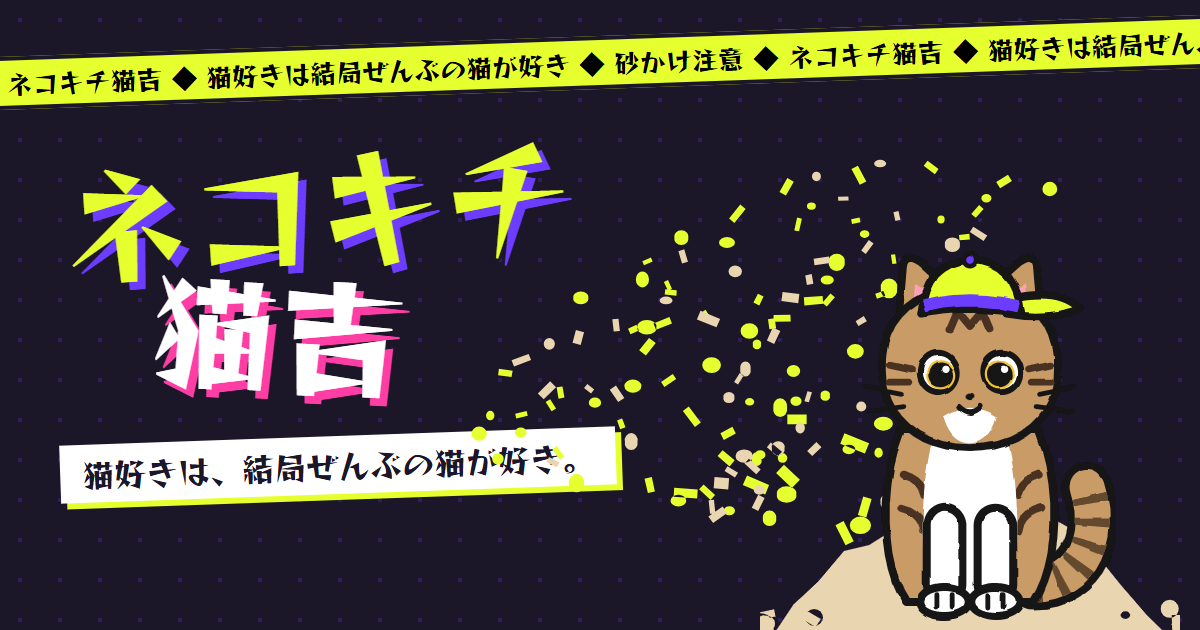
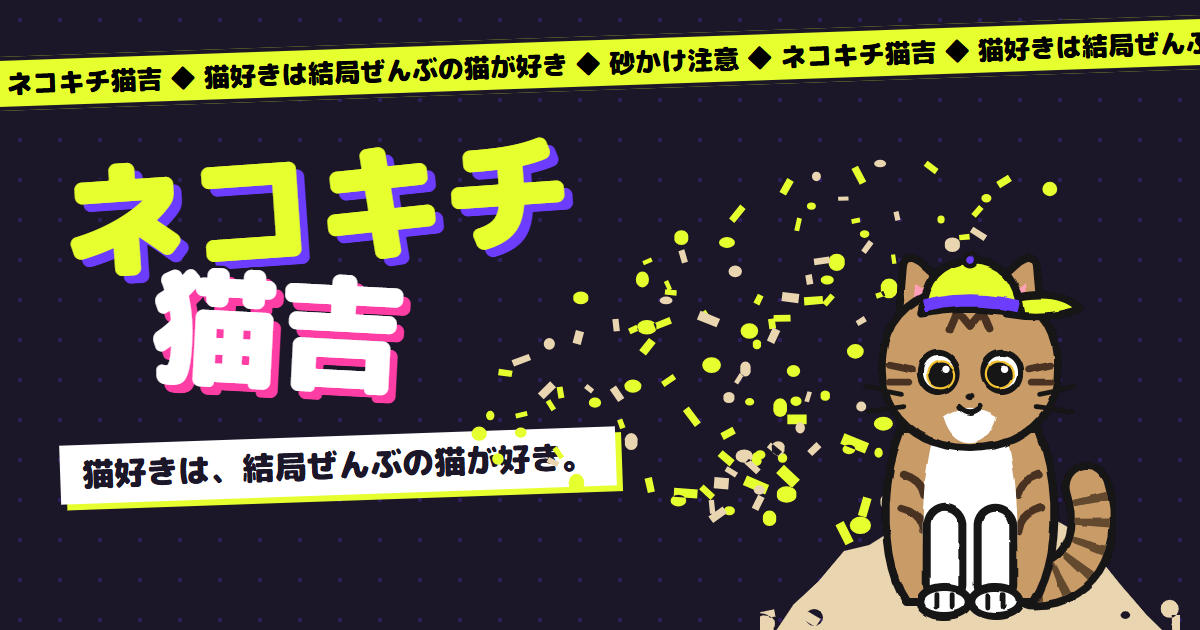
フォントを丸文字(M PLUS Rounded 1c・Fredoka)に、スマホのコロコロを小さく

Changed region(s): [[0.0617, 0.2111, 0.4933, 0.6635], [0.0, 0.0302, 1.0, 0.181], [0.0617, 0.6937, 0.5242, 0.8143]]

diff --git a/src/styles/global.css b/src/styles/global.css
@@ -21,11 +21,11 @@
   --kiji: #c99b66;
   --gray: #5f5870;
   --shadow: 5px 5px 0 var(--k);
-  --font-head: "Reggae One", "M PLUS 1p", "Hiragino Kaku Gothic StdN", sans-serif;
-  --font-logo: "Reggae One", "M PLUS 1p", sans-serif;
-  --font-latin: "Bungee", "Reggae One", sans-serif;
-  --font-dot: "M PLUS 1p", sans-serif;
-  --font-body: "M PLUS 1p", "Hiragino Kaku Gothic ProN", "Meiryo", sans-serif;
+  --font-head: "M PLUS Rounded 1c", "Hiragino Maru Gothic ProN", "Hiragino Sans", sans-serif;
+  --font-logo: "M PLUS Rounded 1c", "Hiragino Maru Gothic ProN", sans-serif;
+  --font-latin: "Fredoka", "M PLUS Rounded 1c", sans-serif;
+  --font-dot: "M PLUS Rounded 1c", sans-serif;
+  --font-body: "M PLUS Rounded 1c", "Hiragino Maru Gothic ProN", "Hiragino Sans", "Meiryo", sans-serif;
 }
 * { box-sizing: border-box; }
 html { -webkit-text-size-adjust: 100%; scroll-behavior: smooth; scroll-padding-top: 20px; }
@@ -45,7 +45,7 @@ a { color: var(--violet); text-underline-offset: 3px; }
 :focus-visible { outline: 4px solid var(--yellow); outline-offset: 2px; }
 svg { display: block; max-width: 100%; }
 .wrap { max-width: 1100px; margin: 0 auto; padding-inline: 16px; }
-h1, h2, h3 { font-family: var(--font-head); font-weight: 400; line-height: 1.3; margin: 0; }
+h1, h2, h3 { font-family: var(--font-head); font-weight: 900; line-height: 1.3; margin: 0; }
 h1, h2, h3, td, th, .btn, .tool-card b, .col-title, .wanted h3 { word-break: keep-all; overflow-wrap: anywhere; }
 .hl { background: linear-gradient(transparent 55%, var(--yellow) 55%); }
 .small { font-size: .84rem; color: var(--gray); }
@@ -58,7 +58,7 @@ h1, h2, h3, td, th, .btn, .tool-card b, .col-title, .wanted h3 { word-break: kee
 .brand { position: relative; display: flex; align-items: center; gap: 10px; color: var(--white); text-decoration: none; }
 .brand .logo-sand { position: absolute; left: -30px; top: -34px; width: 130px; z-index: -1; }
 .brand > span:last-child { display: grid; }
-.brand b { font-family: var(--font-logo); font-weight: 400; font-size: 1.75rem; line-height: 1.1; color: var(--yellow); -webkit-text-stroke: 1.5px var(--k); paint-order: stroke fill; text-shadow: 3px 3px 0 var(--k); rotate: -3deg; }
+.brand b { font-family: var(--font-logo); font-weight: 900; font-size: 1.75rem; line-height: 1.1; color: var(--yellow); -webkit-text-stroke: 1.5px var(--k); paint-order: stroke fill; text-shadow: 3px 3px 0 var(--k); rotate: -3deg; }
 .brand small { font-size: .72rem; font-weight: 800; letter-spacing: .04em; background: var(--white); color: var(--k); padding: 0 8px; justify-self: start; rotate: -3deg; margin-top: 4px; }
 .brand .logo-face { width: 56px; }
 .issue { font-size: .78rem; font-weight: 800; text-align: right; line-height: 1.5; margin: 0; color: var(--hair); }
@@ -80,7 +80,7 @@ h1, h2, h3, td, th, .btn, .tool-card b, .col-title, .wanted h3 { word-break: kee
 main { padding-block: 26px 70px; }
 
 /* ---------- ボタン(ステッカー) ---------- */
-.btn { display: inline-flex; align-items: center; gap: 8px; padding: 10px 24px; font-family: var(--font-head); font-weight: 400; font-size: 1.05rem; text-decoration: none; color: var(--k); background: var(--white); border: 3px solid var(--k); border-radius: 999px; box-shadow: 4px 4px 0 var(--k); cursor: pointer; transition: translate .1s, box-shadow .1s, rotate .15s; }
+.btn { display: inline-flex; align-items: center; gap: 8px; padding: 10px 24px; font-family: var(--font-head); font-weight: 900; font-size: 1.05rem; text-decoration: none; color: var(--k); background: var(--white); border: 3px solid var(--k); border-radius: 999px; box-shadow: 4px 4px 0 var(--k); cursor: pointer; transition: translate .1s, box-shadow .1s, rotate .15s; }
 .btn:hover { translate: -2px -2px; box-shadow: 6px 6px 0 var(--k); rotate: -2deg; color: var(--k); }
 .btn:active { translate: 3px 3px; box-shadow: 1px 1px 0 var(--k); }
 .btn-pink { background: var(--yellow); }
@@ -228,7 +228,7 @@ main { padding-block: 26px 70px; }
 .tool-card { display: grid; grid-template-columns: 64px 1fr; gap: 12px; align-items: center; padding: 14px; background: var(--paper); border: 3px solid var(--k); box-shadow: 5px 5px 0 var(--yellow); color: var(--k); text-decoration: none; transition: rotate .15s, translate .15s; }
 .tool-card:nth-child(3n+2) { box-shadow: 5px 5px 0 var(--pink); } .tool-card:nth-child(3n) { box-shadow: 5px 5px 0 var(--mint); }
 .tool-card:hover { rotate: -1.5deg; translate: 0 -3px; color: var(--k); }
-.tool-card b { display: block; font-family: var(--font-head); font-weight: 400; font-size: 1.08rem; line-height: 1.35; }
+.tool-card b { display: block; font-family: var(--font-head); font-weight: 900; font-size: 1.08rem; line-height: 1.35; }
 .tool-card small { display: block; font-size: .8rem; color: var(--gray); line-height: 1.55; margin-top: 2px; }
 .tool-card svg { width: 100%; }
 
@@ -275,7 +275,7 @@ main { padding-block: 26px 70px; }
 .foot .ground { position: absolute; left: 0; right: 0; bottom: 100%; width: 100%; height: 50px; margin-bottom: -1px; }
 .foot p { margin: .3em 0; position: relative; }
 .foot a { color: var(--k); font-weight: 700; }
-.foot b { font-family: var(--font-head); font-weight: 400; font-size: 1.2rem; }
+.foot b { font-family: var(--font-head); font-weight: 900; font-size: 1.2rem; }
 
 /* ---------- 編集長の顔(押すとびっくり) ---------- */
 .brand .logo-face { position: relative; display: block; flex: none; aspect-ratio: 200 / 190; }
@@ -339,3 +339,5 @@ td, th { overflow-wrap: break-word; }
 
 .issue span { white-space: nowrap; }
 @media (max-width: 600px) { .issue { text-align: left; } .issue-boss { display: none; } }
+.col-head .splat { opacity: .45; }
+@media (max-width: 600px) { .roller { font-size: 0; gap: 2px; padding: 6px 10px; } .roller svg { width: 26px; } .roller-n { font-size: .8rem; } }
